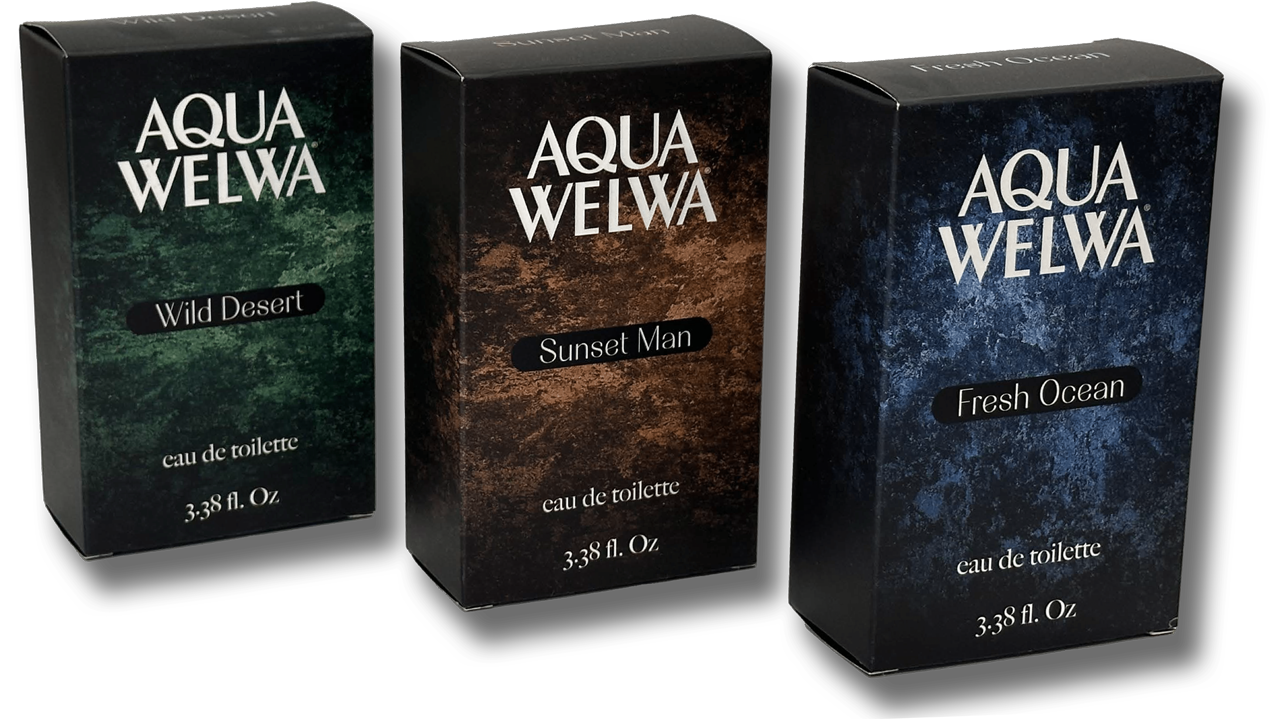
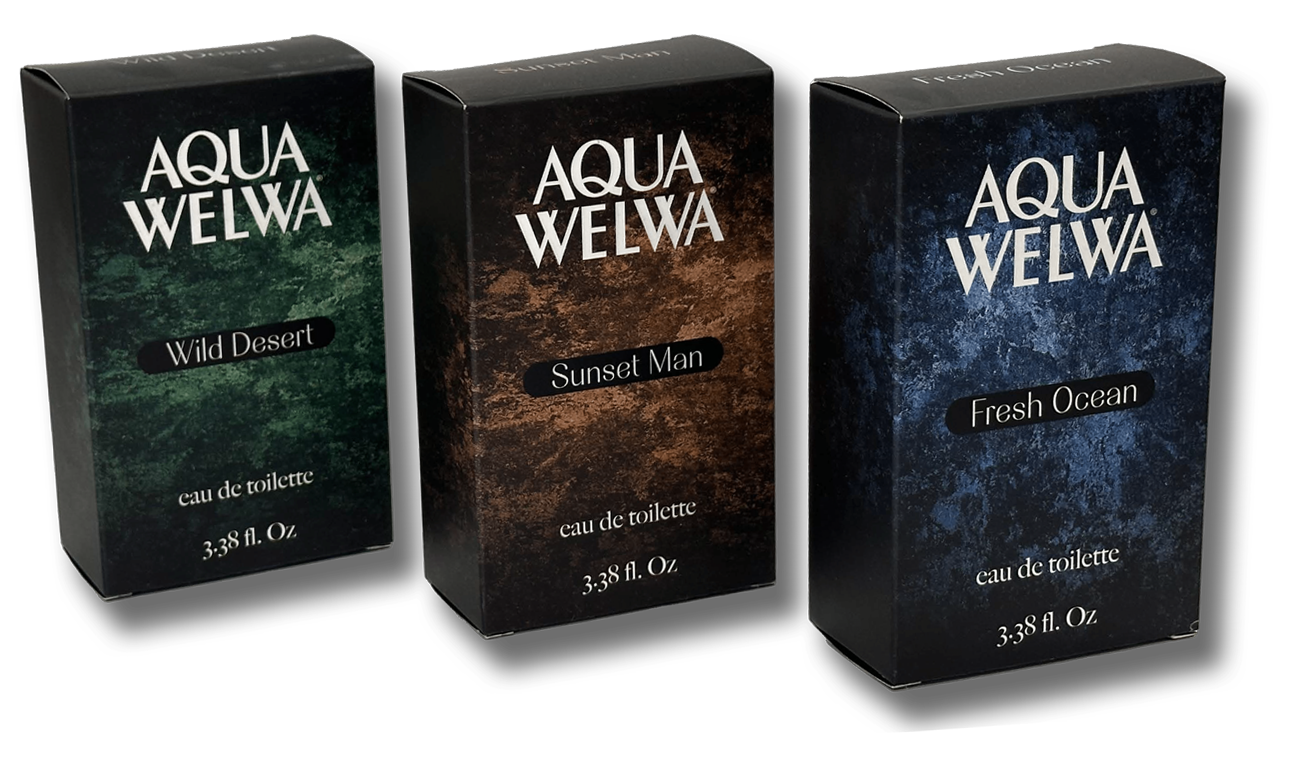
Final 1.3

diff --git a/css/style.css b/css/style.css
@@ -490,7 +490,7 @@ button:hover {
 .prod2 {
     position: absolute;
     top: 150vh;
-    left: 30vw;
+    left: 25vw;
 }
 
 .prodmobile {
